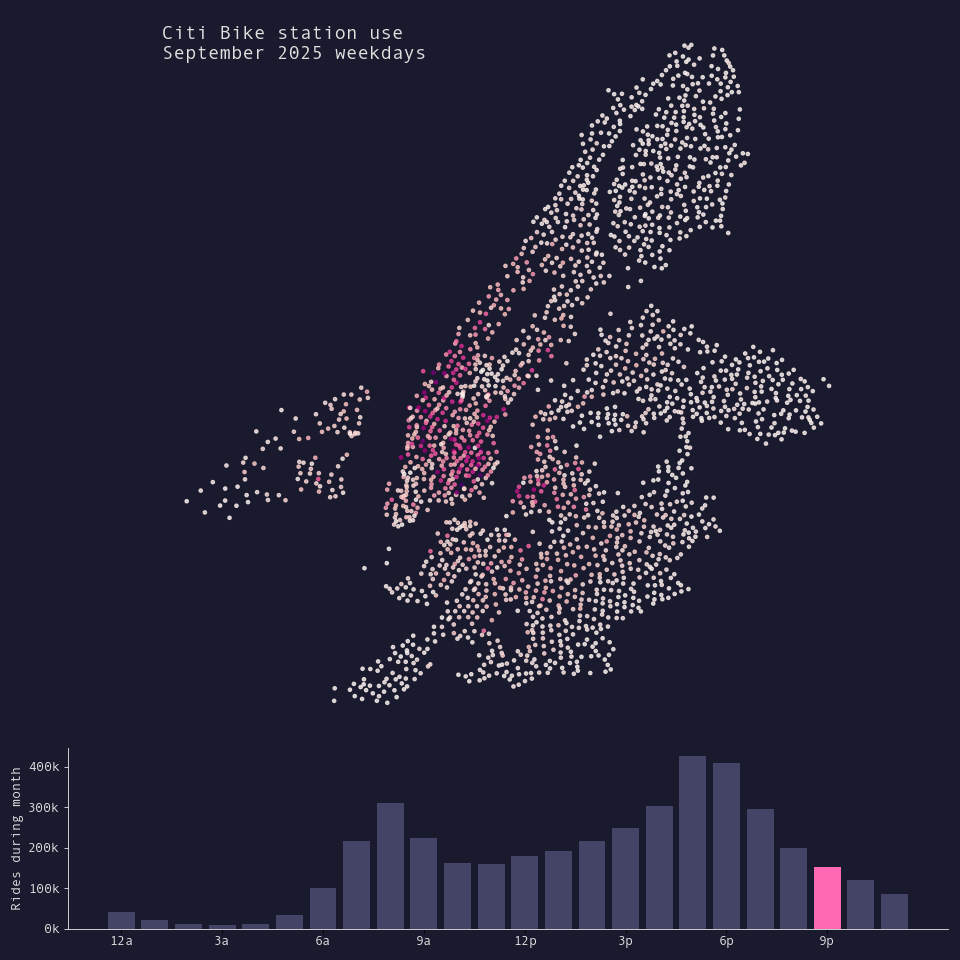
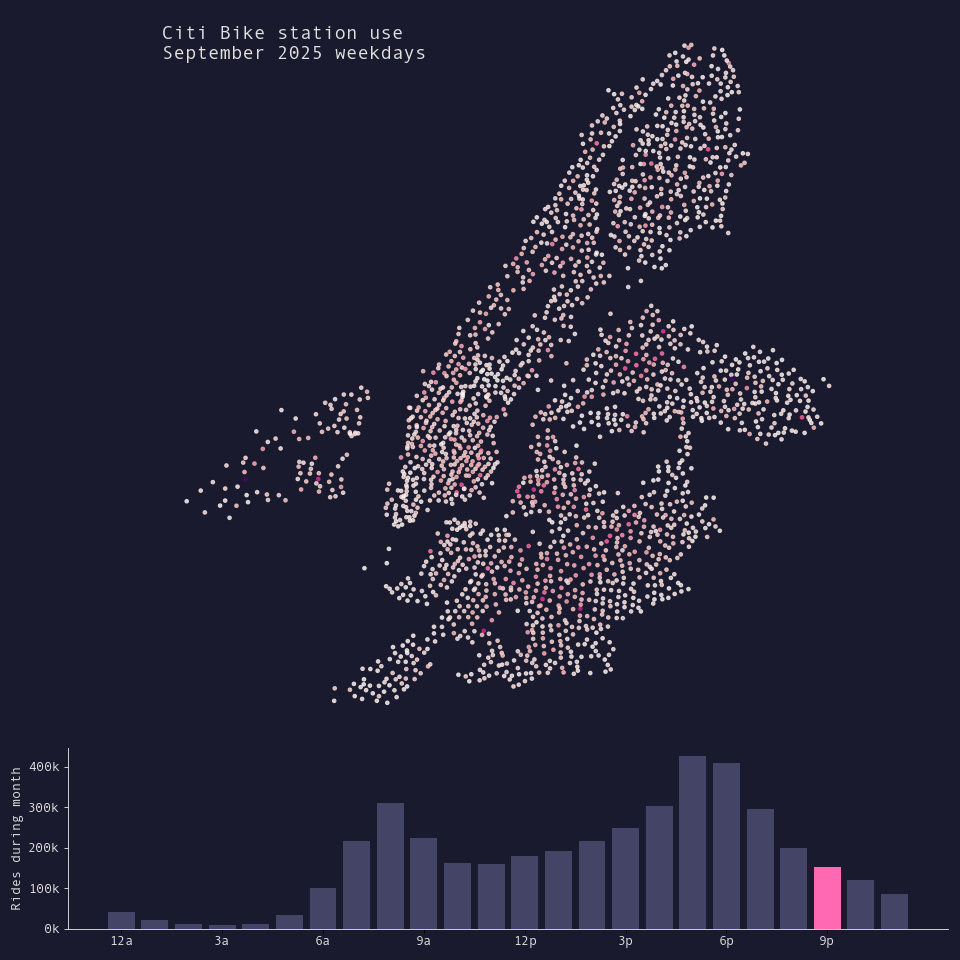
use pagerank

diff --git a/src/analyses/centrality_calculation.py b/src/analyses/centrality_calculation.py
@@ -92,8 +92,8 @@ for hour in range(24):
     )
 
     pr = (
-        centrality.get_in_degree(g)
-        .rename({"in_degree": "centrality"})
+        centrality.get_pagerank(g)
+        .rename({"pagerank": "centrality"})
         .join(station_info, on="station_id", how="left")
     )
     graph_centrality(pr, hour=hour, hourly_rides=hourly_rides)
